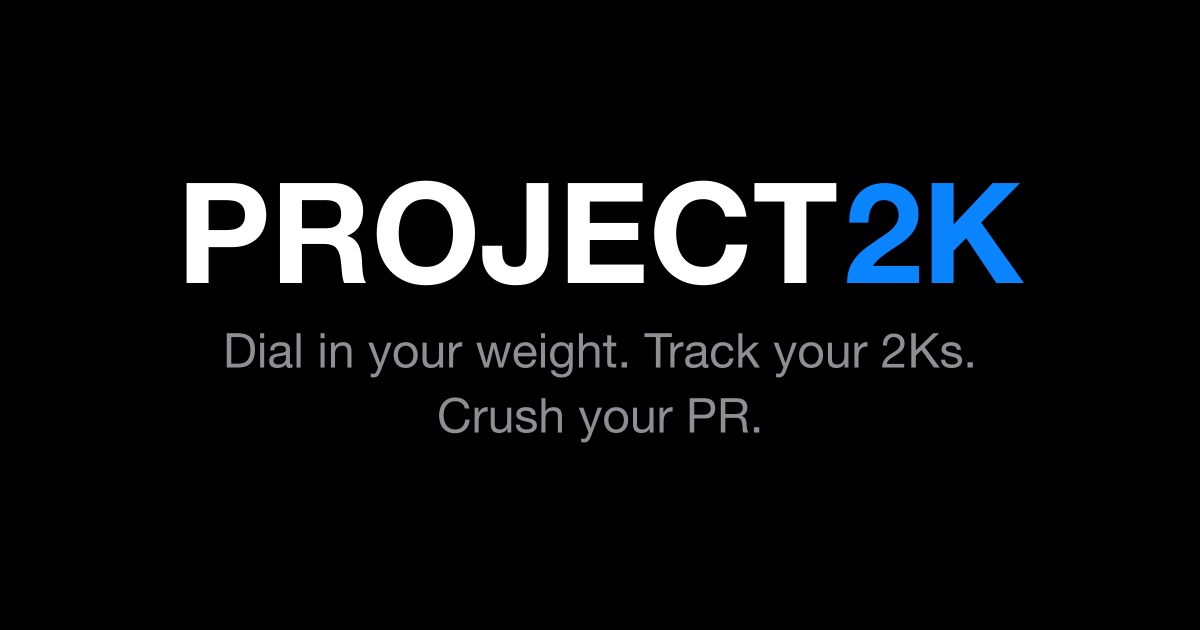
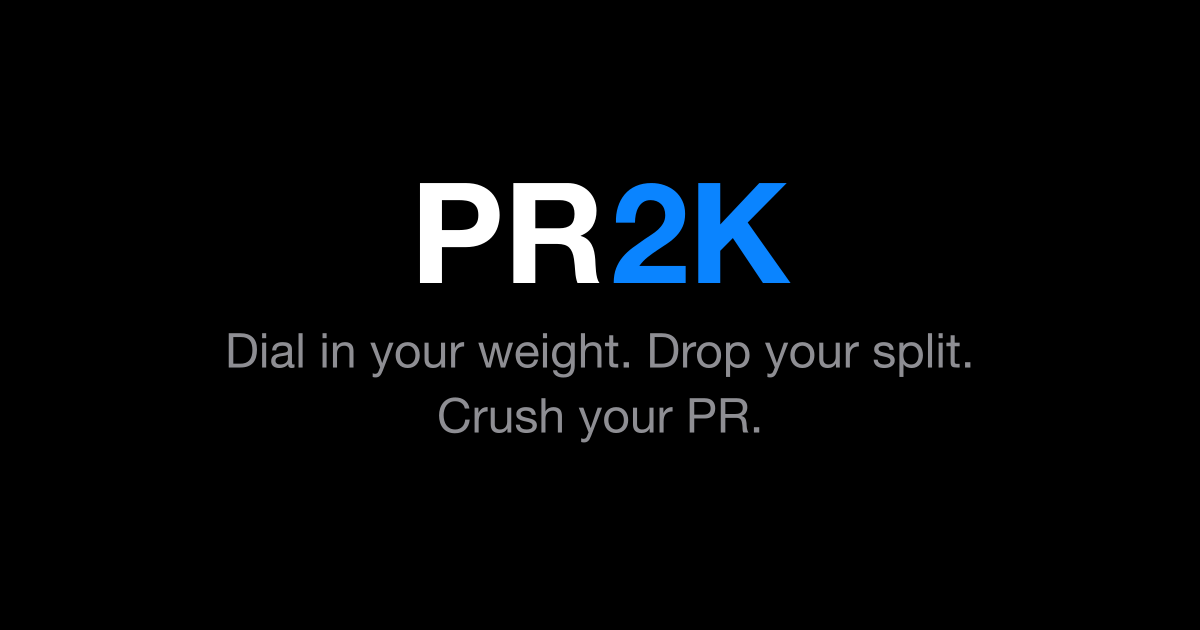
Rename PROJECT2K to PR2K across site and OG image

Changed region(s): [[0.1542, 0.2714, 0.8633, 0.4524], [0.185, 0.5127, 0.8017, 0.6032]]

diff --git a/public/index.html b/public/index.html
@@ -8,14 +8,14 @@
   <meta name="theme-color" content="#000000">
   <link rel="icon" type="image/png" href="/profile.png">
   <link rel="apple-touch-icon" href="/profile.png">
-  <title>PROJECT2K</title>
-  <meta property="og:title" content="PROJECT2K">
+  <title>PR2K</title>
+  <meta property="og:title" content="PR2K">
   <meta property="og:description" content="Dial in your weight. Track your 2Ks. Crush your PR.">
   <meta property="og:image" content="https://www.project2k.co/og-image.png">
   <meta property="og:url" content="https://www.project2k.co">
   <meta property="og:type" content="website">
   <meta name="twitter:card" content="summary_large_image">
-  <meta name="twitter:title" content="PROJECT2K">
+  <meta name="twitter:title" content="PR2K">
   <meta name="twitter:description" content="Dial in your weight. Track your 2Ks. Crush your PR.">
   <meta name="twitter:image" content="https://www.project2k.co/og-image.png">
   <link rel="stylesheet" href="style.css">
@@ -26,11 +26,11 @@
   <!-- Login Screen -->
   <div class="login-overlay" id="login-screen">
     <div class="login-card">
-      <h1 class="login-title">PROJECT<span class="title-2k">2K</span></h1>
+      <h1 class="login-title">PR<span class="title-2k">2K</span></h1>
       <p class="login-subtitle">Dial in your weight. Drop your split. Crush your PR.</p>
       <p class="login-cta">Sign In & Get to Work!</p>
       <div id="google-signin-btn"></div>
-      <p class="login-donate-text">PROJECT2K is a 100% free tool built to help you crush your PR. We proudly support the <a href="https://www.pocockfoundation.org/" target="_blank" rel="noopener" class="donate-link">George Pocock Rowing Foundation</a> in bringing the sport of rowing to the next generation.</p>
+      <p class="login-donate-text">PR2K is a 100% free tool built to help you crush your PR. We proudly support the <a href="https://www.pocockfoundation.org/" target="_blank" rel="noopener" class="donate-link">George Pocock Rowing Foundation</a> in bringing the sport of rowing to the next generation.</p>
       <a href="https://instagram.com/pr2kco" target="_blank" rel="noopener" class="login-ig" title="@pr2kco">
         <svg width="32" height="32" viewBox="0 0 24 24" fill="currentColor"><path d="M12 2.163c3.204 0 3.584.012 4.85.07 3.252.148 4.771 1.691 4.919 4.919.058 1.265.069 1.645.069 4.849 0 3.205-.012 3.584-.069 4.849-.149 3.225-1.664 4.771-4.919 4.919-1.266.058-1.644.07-4.85.07-3.204 0-3.584-.012-4.849-.07-3.26-.149-4.771-1.699-4.919-4.92-.058-1.265-.07-1.644-.07-4.849 0-3.204.013-3.583.07-4.849.149-3.227 1.664-4.771 4.919-4.919 1.266-.057 1.645-.069 4.849-.069zM12 0C8.741 0 8.333.014 7.053.072 2.695.272.273 2.69.073 7.052.014 8.333 0 8.741 0 12c0 3.259.014 3.668.072 4.948.2 4.358 2.618 6.78 6.98 6.98C8.333 23.986 8.741 24 12 24c3.259 0 3.668-.014 4.948-.072 4.354-.2 6.782-2.618 6.979-6.98.059-1.28.073-1.689.073-4.948 0-3.259-.014-3.667-.072-4.947-.196-4.354-2.617-6.78-6.979-6.98C15.668.014 15.259 0 12 0zm0 5.838a6.162 6.162 0 100 12.324 6.162 6.162 0 000-12.324zM12 16a4 4 0 110-8 4 4 0 010 8zm6.406-11.845a1.44 1.44 0 100 2.881 1.44 1.44 0 000-2.881z"/></svg>
       </a>
@@ -47,7 +47,7 @@
       </div>
       <div class="menu-items">
         <a href="https://www.pocockfoundation.org/" target="_blank" rel="noopener" class="menu-donate-btn">Pay It Forward</a>
-        <p class="menu-donate-text">PROJECT2K is completely free. If this app helps you crush your goals, pay it forward. Please support the George Pocock Rowing Foundation and help young athletes access the life-changing sport of rowing.</p>
+        <p class="menu-donate-text">PR2K is completely free. If this app helps you crush your goals, pay it forward. Please support the George Pocock Rowing Foundation and help young athletes access the life-changing sport of rowing.</p>
         <div class="menu-contact">
           <p class="menu-contact-label">Feedback</p>
           <p class="menu-contact-line"><a href="https://www.linkedin.com/in/jazper-jacobs-300391276/" target="_blank" rel="noopener" class="menu-contact-link">Jazper Jacobs</a></p>
@@ -67,7 +67,7 @@
         <button class="hamburger-btn" id="hamburger-btn" aria-label="Menu">
           <span></span><span></span><span></span>
         </button>
-        <h1 class="hero-title">PROJECT<span class="title-2k">2K</span></h1>
+        <h1 class="hero-title">PR<span class="title-2k">2K</span></h1>
         <p class="hero-tag">Crush your PR.</p>
         <div class="hero-stats" id="hero-stats"></div>
       </div>

diff --git a/server.js b/server.js
@@ -252,7 +252,7 @@ app.delete('/api/ergtimes/:id', requireAuth, async (req, res) => {
 // Start server
 initDB().then(() => {
   app.listen(PORT, () => {
-    console.log(`Project2k is running on port ${PORT}`);
+    console.log(`PR2K is running on port ${PORT}`);
   });
 }).catch(err => {
   console.error('Failed to initialize database:', err);
